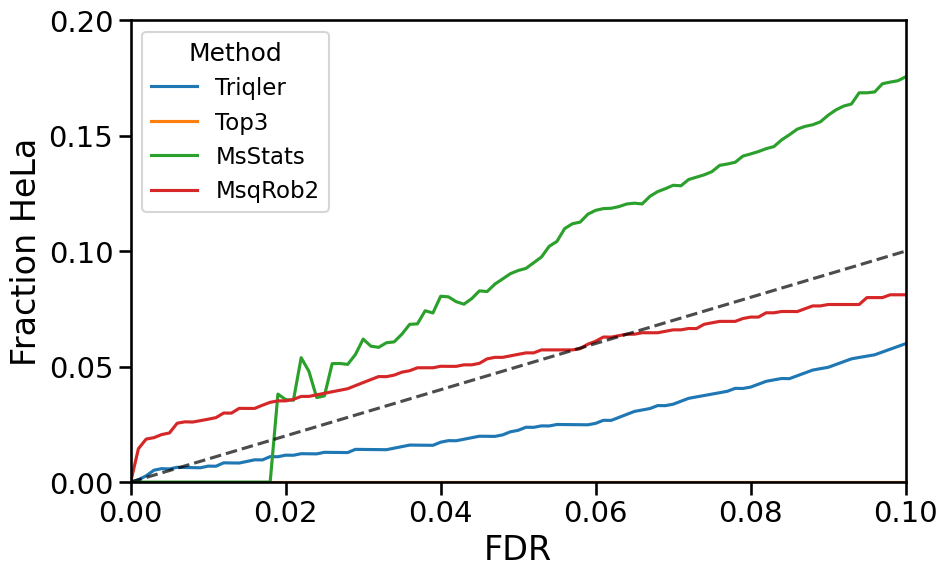
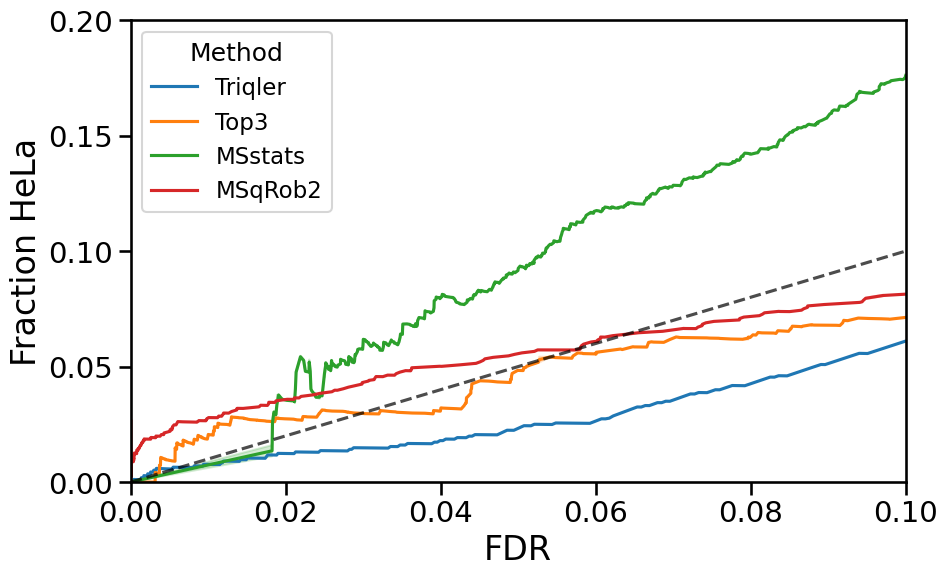
update calibration plot

diff --git a/scripts/clean/plot_calibration_curve_step.py b/scripts/clean/plot_calibration_curve_step.py
@@ -113,7 +113,7 @@ def get_DE_for_triqler(triqler):
     #df_res = pd.DataFrame(vals, index = np.arange(0,0.101, 0.001), columns = ["HUMAN", "YEAS8", "ECOLI", "HUMAN_factor", "YEAST_factor", "ECOLI_factor"])
     return df_res
 
-def calibration_plot(df, output, xlim = [0,0.05], ylim = [0,0.05]):
+def calibration_plot(df, output, xlim = [0,0.10], ylim = [0,0.20]):
     fig, axs = plt.subplots(1, 1, figsize=(10,6))
     #sns.lineplot(x = "FDR", y = "actual_error", data = df, ax = axs, hue = "method")
     sns.lineplot(x = "FDR", y = "Fraction_HeLa", data = df, ax = axs, hue = "Method")
@@ -144,8 +144,37 @@ def calibration_plot(df, output, xlim = [0,0.05], ylim = [0,0.05]):
     print("Outputting : " + output)
     plt.savefig(output, bbox_inches="tight")
 
+def get_fraction_hela(df_in, method):
+    df=df_in.copy()
+    df.sort_values(by = "FDR", inplace = True)
+    df["count_HUMAN"] = df.Protein.str.contains("_HUMAN").astype(int)
+    df["count_ECOLI"] = df.Protein.str.contains("_ECOLI").astype(int)
+    df["count_YEAST"] = df.Protein.str.contains("_YEAST").astype(int)
+    df["cumsum_HUMAN"] = df["count_HUMAN"].cumsum()
+    df["cumsum_ECOLI"] = df["count_ECOLI"].cumsum()
+    df["cumsum_YEAST"] = df["count_YEAST"].cumsum()
+    df["Fraction_HeLa"] = df["cumsum_HUMAN"] / (df["cumsum_HUMAN"] + df["cumsum_ECOLI"] + df["cumsum_YEAST"])
+    df["Method"] = method
+    df.fillna(1, inplace = True) # assume NaN is maxed out FDR
+    #df = df.reset_index().drop("index",axis = 1)
+    return df[["FDR", "Fraction_HeLa", "Method"]]
 
-def main(triqler_file, top3_file, msstats_file, msqrob2_file, output, fc_threshold = 0.0, xlim = [0,0.05], ylim = [0,0.05]):
+def get_fraction_hela_df(triqler, top3, msstats, msqrob2):
+    fdrs = []
+    for df, method in zip([triqler, top3, msstats, msqrob2], ["Triqler", "Top3", "MSstats", "MSqRob2"]):
+        fdrs.append(get_fraction_hela(df, method))
+    df = pd.concat(fdrs)
+    df = df.reset_index().drop("index", axis = 1).copy()
+    return df
+
+def threshold_fc(df, fc_threshold):
+    fc_threshold = 0.0
+    df_fc = df[abs(df["log2FC"]) > fc_threshold].copy()
+    df_fc["FDR"] = qvalues(df_fc, pcol = "FDR")["q"] #recompute FDR for thresholded set
+    return df_fc
+
+
+def main(triqler_file, top3_file, msstats_file, msqrob2_file, output, fc_threshold = 0, xlim = [0,0.05], ylim = [0,0.05]):
     
     #fc_threshold = 0.0 #should be same as triqler fc_eval
 
@@ -155,34 +184,27 @@ def main(triqler_file, top3_file, msstats_file, msqrob2_file, output, fc_thresho
     #msqrob2_file = "msqrob2_results.csv"
     
     triqler = parse_triqler(triqler_file)
+    #triqler[~triqler.protein.str.contains("DECOY")]
     triqler["specie"] = triqler.protein.map(lambda x:x.split("_")[1])
+    triqler["FDR"] = triqler["q_value"]
+    triqler.rename({"protein":"Protein"}, axis = 1, inplace = True)
     top3 = pd.read_csv(top3_file, sep = "\t").rename({"q":"FDR", 'log2(A,B)':"log2FC"}, axis = 1)
+    top3.rename({"ProteinName":"Protein"}, axis = 1, inplace = True)
     msstats = pd.read_csv(msstats_file, sep = ",").rename({"adj.pvalue":"FDR"}, axis = 1)
     msstats["specie"] = msstats.Protein.map(lambda x:x.split("_")[1])
     msqrob2 = pd.read_csv(msqrob2_file, sep = ",").rename({"Unnamed: 0":"protein", "adjPval":"FDR", "logFC":"log2FC"}, axis = 1)
-    msqrob2["specie"] = msqrob2.protein.map(lambda x:x.split("_")[1])
+    msqrob2.rename({"protein":"Protein"}, axis = 1, inplace = True)
+    msqrob2["specie"] = msqrob2.Protein.map(lambda x:x.split("_")[1])
+    msqrob2.rename({"protein":"Protein"}, axis = 1, inplace = True)
 
-    triqler_pq = get_DE_for_triqler(triqler)
-    #top3_pq = pq_data(top3, fc = fc_threshold)
-    #msstats_pq = pq_data(msstats, fc = fc_threshold)
-    #msqrob2_pq = pq_data(msqrob2, fc = fc_threshold)
-
-    triqler_frac = (triqler_pq["HUMAN"] / triqler_pq.sum(axis=1))
-    triqler_frac = pd.DataFrame(triqler_frac, columns = ["DE"])
-    triqler_frac["method"] = "Triqler"
-    top3_frac = pq_data(top3[top3.specie == "HUMAN"], fc = fc_threshold) / pq_data(top3, fc = fc_threshold)
-    top3_frac = pd.DataFrame(top3_frac.fillna(0), columns = ["DE"])
-    top3_frac["method"] = "Top3"
-    ms_frac = pq_data(msstats[msstats["specie"] == "HUMAN"], fc = fc_threshold) / pq_data(msstats, fc = fc_threshold)
-    ms_frac["method"] = "MsStats"
-    msqrob2_frac = pq_data(msqrob2[msqrob2["specie"] == "HUMAN"], fc = fc_threshold) / pq_data(msqrob2, fc = fc_threshold)
-    msqrob2_frac = msqrob2_frac.fillna(0)
-    msqrob2_frac["method"] = "MsqRob2"
-
-    df_frac = pd.concat([triqler_frac, top3_frac, ms_frac, msqrob2_frac], axis = 0)
-    df_frac = pd.DataFrame(df_frac.reset_index().values, columns = ["FDR", "Fraction_HeLa", "Method"])
+    if fc_threshold != 0:
+        #triqler = threshold_fc(triqler, fc_threshold)
+        top3 = threshold_fc(top3, fc_threshold)
+        msstats = threshold_fc(msstats, fc_threshold)
+        msqrob2 = threshold_fc(msqrob2, fc_threshold)
+        
+    df = get_fraction_hela_df(triqler, top3, msstats, msqrob2)
     
-    df = df_frac
     calibration_plot(df = df, output = output, xlim = xlim, ylim = ylim)
 
 parser = argparse.ArgumentParser(

diff --git a/scripts/clean/plot_scatter.py b/scripts/clean/plot_scatter.py
@@ -11,6 +11,7 @@ import matplotlib.pyplot as plt
 import pandas as pd
 import numpy as np
 import argparse
+sns.set_context("talk")
 
 #df_top3 = pd.read_csv("top3_results.csv", sep = "\t")
 #df = pd.read_csv("msstats_scatter_format_input.csv", sep = "\t")
@@ -35,8 +36,14 @@ def plot_scatterplot(df, output, fdr_threshold = 1.00):
     ax.axhline(-1, linestyle = "--", color="tab:green", alpha = 0.5)
     ax.set_ylim([-2,3])
     #ax.set_xlim([0,10])
-    ax.set_xlabel("log2(B)")
-    plt.title("std/mu ratio for log-transformed peptide values")
+    ax.set_xlabel("log2(B)", fontsize=34)
+    ax.set_ylabel("log2(A,B)", fontsize=34)
+    
+    ax.tick_params(axis='x', which='major', labelsize=32)#labelrotation=90)
+    ax.tick_params(axis='y', which='major', labelsize=32)
+    
+    
+    #plt.title("std/mu ratio for log-transformed peptide values")
         
     fig = ax.get_figure()
     print(f"Saving output {output}")
